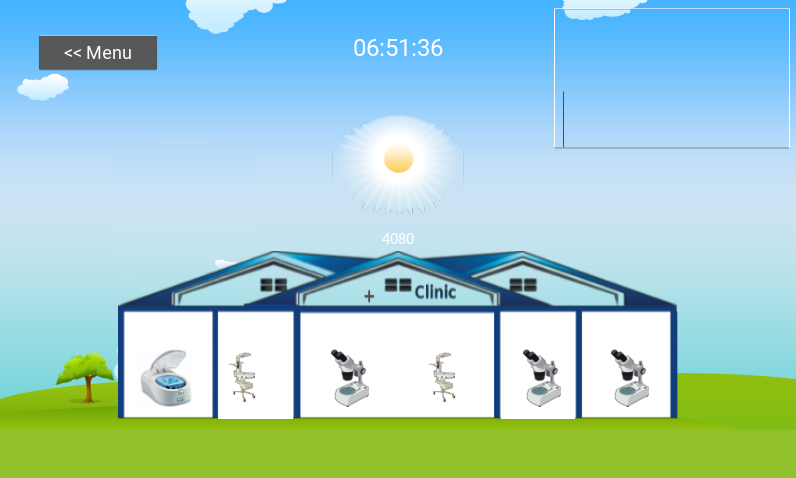
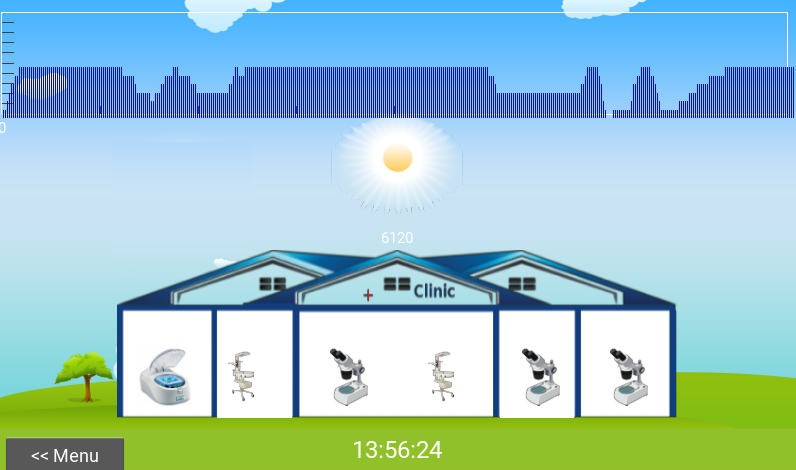
Graphs as full width histogram

diff --git a/EnergyGame.py b/EnergyGame.py
@@ -13,6 +13,7 @@ from kivy.garden.graph import Graph, MeshLinePlot
 import json
 from kivy.clock import Clock
 from kivy.config import Config
+from kivy.graphics import Rectangle, Color
 from kivy.uix.screenmanager import Screen, ScreenManager
 Config.set('graphics', 'width', '800')
 Config.set('graphics', 'height', '480')
@@ -24,6 +25,7 @@ class GameSession:
         self.level = level
         self.duration = duration
         self.current_load = 0
+        self.iteration = 0
 
     def set_current_load(self):
         load = 0
@@ -123,7 +125,7 @@ class GameScreen(Screen):
                       x_ticks_major=30, y_ticks_major=1,
                       y_grid_label=True, x_grid_label=True, padding=5,
                       x_grid=False, y_grid=False, xmin=0, xmax=24, ymin=0, ymax=10,
-                      pos_hint={'x': .7, 'y': .7}, size_hint=(.3, .3))
+                      pos_hint={'x': .0, 'y': .7}, size_hint=(1.0, .3))
 
     def display(self):
         background = Image(source="images/background2.png")
@@ -137,13 +139,13 @@ class GameScreen(Screen):
 
         self.time_label = Label(text="00:00:00",
                            font_size='24dp',
-                           pos_hint={'x': .4, 'y': .85},
+                           pos_hint={'x': .4, 'y': .01},
                            size_hint=(.2, .1))
         self.layout.add_widget(self.time_label)
 
         back_button = Button(text="<< Menu",
                               font_size='18dp',
-                              pos_hint={'x': .05, 'y': 0.85},
+                              pos_hint={'x': .01, 'y': 0.01},
                               size_hint=(.15, .075), on_press=self.callpopup)
         self.layout.add_widget(back_button)
 
@@ -151,6 +153,7 @@ class GameScreen(Screen):
             appliance.pos_hint = {'x': self.locations[i][0], 'y': self.locations[i][1]}
             appliance.size_hint = (.12, .12)
             self.layout.add_widget(appliance)
+
 
         self.load_plot = MeshLinePlot(color=[1, 0, 0, 1])
         self.graph.add_plot(self.load_plot)
@@ -161,6 +164,7 @@ class GameScreen(Screen):
         Clock.schedule_interval(self.update_graph, 1)
 
     def update(self, dt):
+        self.game_session.iteration += 1
         hour = ("0"+str(self.game_session.time / 3600))[-2:]
         min = ("0"+str((self.game_session.time / 60) % 60))[-2:]
         sec = ("0"+str(self.game_session.time % 60))[-2:]
@@ -170,12 +174,28 @@ class GameScreen(Screen):
         self.game_session.set_current_load()
         self.current_load_label.text = str(self.game_session.current_load)
 
+
+        rect_width = 1
+        rect_height = 120
+        full_height = 480
+        full_width = 800
+        space = 1
+        number_rectangles = full_width / (rect_width + space)
+
+        rectangles = []
+        with self.layout.canvas:
+            Color(0, 0, 1, 1.0, mode='rgba')
+            Rectangle(pos=(self.game_session.iteration * (rect_width + space), full_height - rect_height),
+                      size=(rect_width, self.game_session.current_load/rect_height))
+
+
     def update_graph(self, dt):
         if len(self.load_plot.points) >= 100:
             #self.manager.current = 'welcome_screen'
             pass
         else:
-            self.load_plot.points.append((self.game_session.time / 1800, int(self.game_session.current_load) / 1000))
+            #self.load_plot.points.append((self.game_session.time / 1800, int(self.game_session.current_load) / 1000))
+            pass
 
     def callpopup(self, event):
         MessageBox(self, titleheader="Confirm", message="Are sure you want to quit the game",
